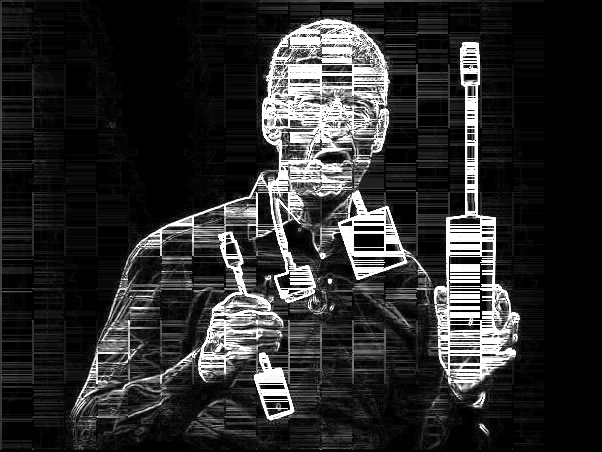
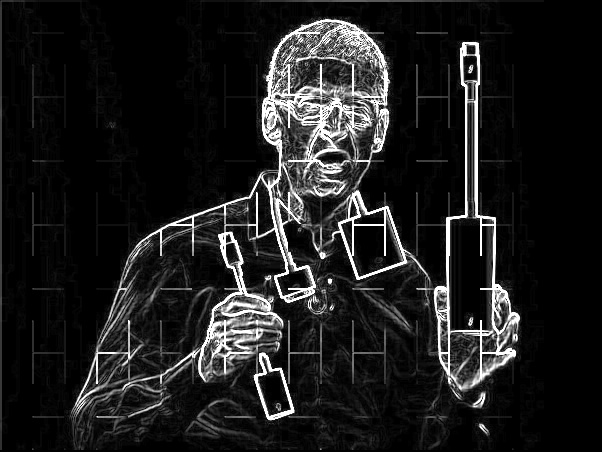
update readme and some comments added

diff --git a/SobelOperator/ReadMe.md b/SobelOperator/ReadMe.md
@@ -24,8 +24,8 @@ If the source matrix is **A**, convolve **A** with **gx** to get matrix **GX**, 
 ```cpp
 my computer cofiguration: ThinkPad T420 with I5-2520 and GPU NVS4200
 Sameple image info: 600 * 450, 3-channels.
-time cost on device: 9.07ms.
-time cost on cpu: 116.167ms. Use opencv API.
+time cost on device: 15.68ms.
+time cost on cpu: 98.74ms. Use opencv API.
 Summary: GPU really gives a huge boost to handling image processing when comparing to cpu.
 In release mode, it may be faster.
 ```
@@ -34,3 +34,6 @@ In release mode, it may be faster.
 ## Tips
 ### This algorithm just implement for handle 1-channel image.
 ### And my Opencv path on my computer is ```C:\Program Files\opencv\install```
+
+# Debug
+## Too much noise happens after sobel filter is applied. See the [issue](https://github.com/Dengjianping/ComputerVision/issues/1)
